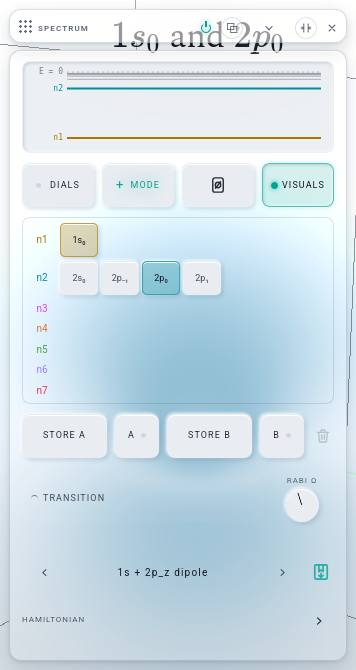
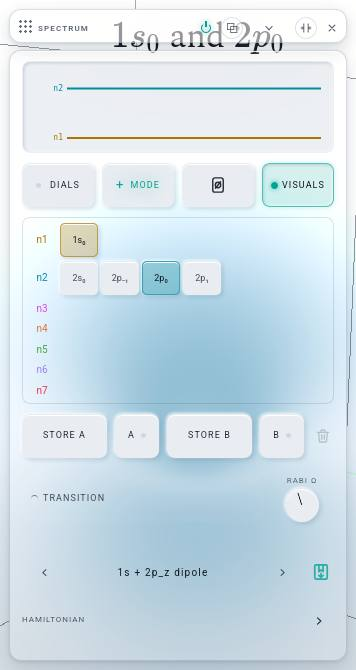
C2 THE LADDER READER: SPECTRUM's ladder draws only the lit levels (named and hovered), no dim n3–n7 hairlines and no E = 0 dash — the 'ruler' gone; before/after pictures

Changed region(s): [[0.1854, 0.0896, 0.8961, 0.1194]]

diff --git a/lab/spectrum.js b/lab/spectrum.js
@@ -343,18 +343,20 @@ export function createSpectrum(host, api) {
     const Emin = HS ? HS.Emin : energy(1), Etop = HS ? HS.Etop : 0;
     const y = (E) => bot - (E - Emin) / (Etop - Emin) * (bot - top);
     g.font = '8px ui-monospace, monospace'; g.textBaseline = 'middle';
-    // continuum line — its NAME is placed last, and only if the gutter row is free (see below)
-    if (!HS) { g.strokeStyle = ink(0.35); g.setLineDash([2, 3]); g.beginPath(); g.moveTo(left, y(0)); g.lineTo(right, y(0)); g.stroke(); g.setLineDash([]); }
+    /* iteration 018 C2 (Josh: "the reader at the very top seems to have some 'ticks' that run left to right like a horizontal ruler … delete those to
+       make it cleaner like the molecule window's"): n = 3 … 7 bunch within a few px of E = 0, so their dim off-lines and the dashed continuum read as a
+       ruler.  Only the LIT levels are drawn (and named, and hovered); no E = 0 dash.  The heights stay physical: the bunching of a lit Rydberg pair is the point. */
     const n2 = reg.norm2() || 1;
     const pops = {}; for (const a of reg.populated()) { const k = HS ? HS.levelKey(a) : BASIS[a].n; pops[k] = (pops[k] || 0) + reg.population(a) / n2; }
     const LEVELS = HS ? HS.levels : Array.from({ length: NMAX }, (_, i) => i + 1).map((n) => ({ key: n, E: energy(n), label: 'n' + n, rgb: nRGB(n) }));
     const names = [];                                    // (the Rydberg bunching crowds the gutter: see the placement below)
     for (const lv of LEVELS) {
-      const n = lv.key, yy = y(lv.E), c = vividInk(lv.rgb), lit = pops[n] > 0;
-      levelLine(g, left, right, yy, lit ? c : INK, lit);
-      if (n <= 2 || lit) names.push({ y: yy, txt: lv.label, col: lit ? `rgba(${c[0]},${c[1]},${c[2]},1)` : ink(0.75), lit, n, pop: pops[n] || 0 });
-      hovers.push({ kind: 'line', key: 'L' + n, points: [left, yy, right, yy], lw: lit ? 2 : 1, colour: `rgba(${c[0]},${c[1]},${c[2]},1)`,
-        info: `${lv.label}  ·  ${lit ? (pops[n] * 100).toFixed(1) + ' %' : 'empty'}  ·  E = ${lv.E.toFixed(4)} Eh` });
+      const n = lv.key, yy = y(lv.E), c = vividInk(lv.rgb);
+      if (!(pops[n] > 0)) continue;
+      levelLine(g, left, right, yy, c, true);
+      names.push({ y: yy, txt: lv.label, col: `rgba(${c[0]},${c[1]},${c[2]},1)`, lit: true, n, pop: pops[n] });
+      hovers.push({ kind: 'line', key: 'L' + n, points: [left, yy, right, yy], lw: 2, colour: `rgba(${c[0]},${c[1]},${c[2]},1)`,
+        info: `${lv.label}  ·  ${(pops[n] * 100).toFixed(1)} %  ·  E = ${lv.E.toFixed(4)} Eh` });
     }
     /* THE GUTTER IS 44 px OF ONE COLUMN, AND E_n = −1/(2n²) BUNCHES (wave 46).  n3 … n6 fall inside 6 px of the
        E = 0 line on a 92 px card, so the names used to print straight over one another — "n3" and "n4" and
@@ -368,7 +370,6 @@ export function createSpectrum(host, api) {
       if (!freeRow(nm.y)) continue;
       usedY.push(nm.y); g.fillStyle = nm.col; g.fillText(nm.txt, left - 4, nm.y);   // the gutter, not the plot
     }
-    if (!HS && freeRow(y(0))) { g.fillStyle = ink(0.75); g.textAlign = 'right'; g.fillText('E = 0', left - 4, y(0)); }
     lfoot(HS ? HS.footer : 'EIGENVALUE  E_n = −1/(2n²) hartree', left, W, H);
     hover.set(hovers, plot);
   }
